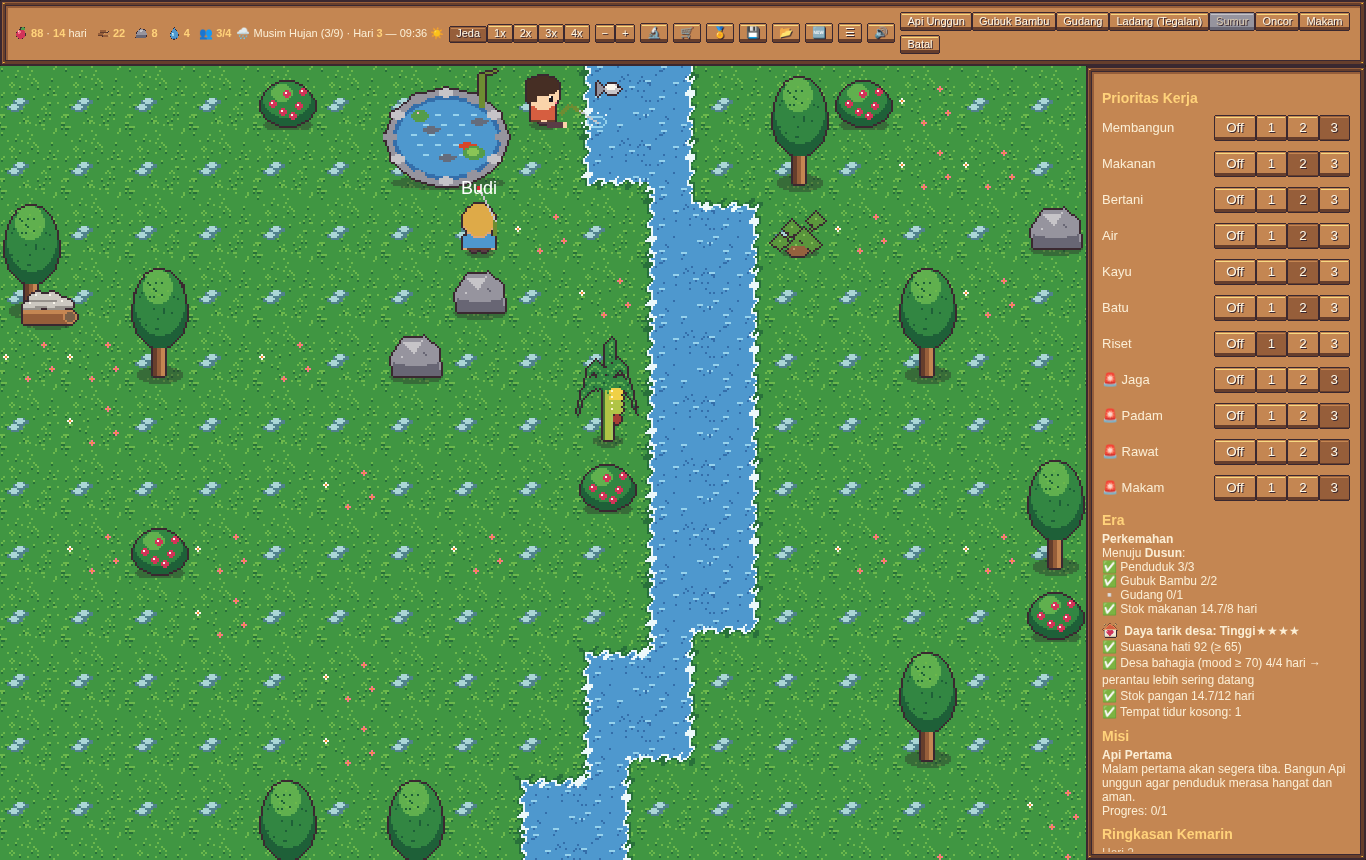
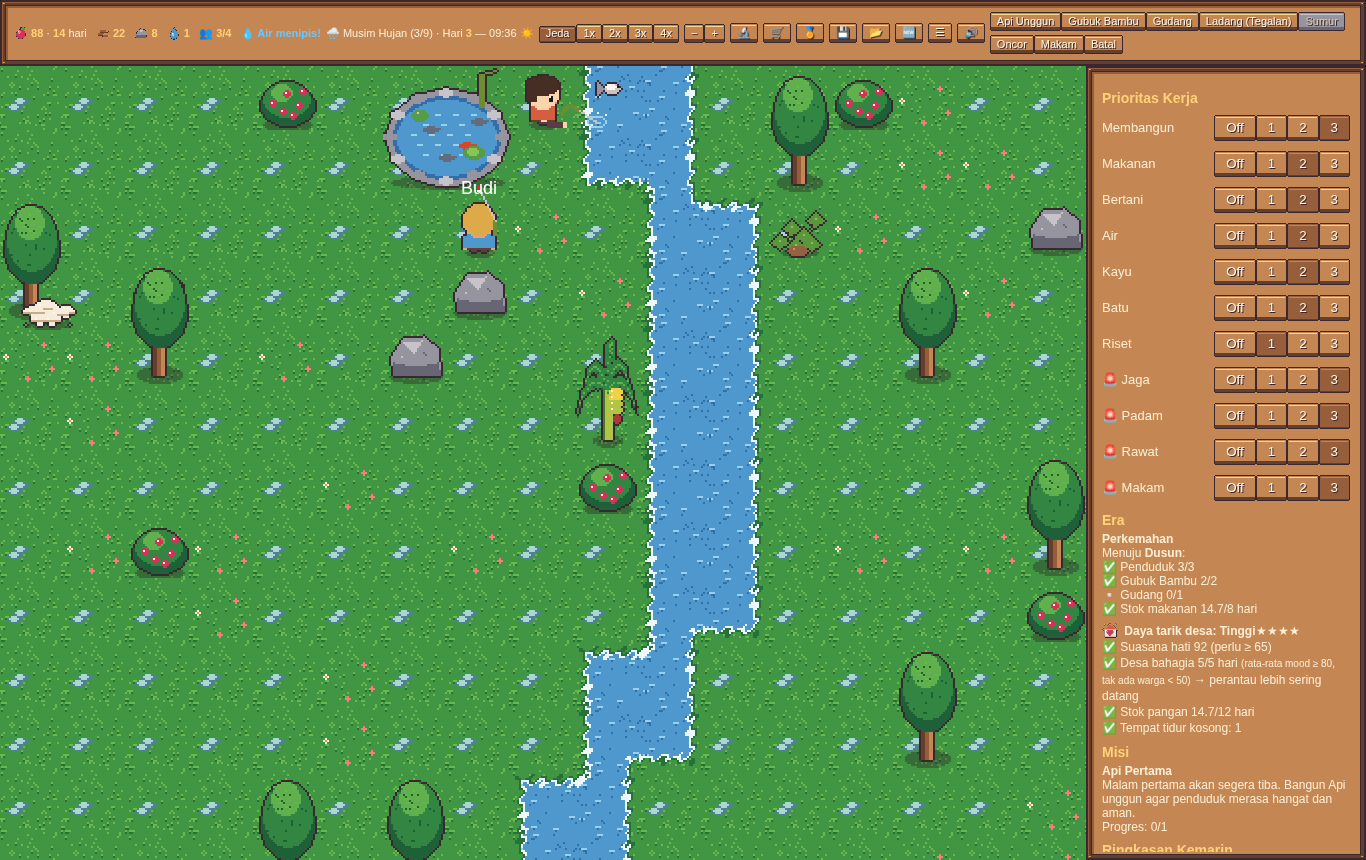
v9b: desa bahagia harus diperjuangkan (mood rata-rata >=80 selama 5 hari & tak ada warga <50, progres 3/5 di Daya tarik), batas nyaman mood (MOOD_COMFORT), makan porsi kecil lebih sering (MEAL_AT 50); tema sedang: semua cerita P0 + Festival Panen tanpa bendera + rubah, Kentang liar/Buah beri; TEKS p

Changed region(s): [[0.1537, 0.0, 0.9839, 0.0605], [0.7994, 0.7256, 0.9839, 0.9977], [0.0, 0.3326, 0.0615, 0.393]]

diff --git a/game.js b/game.js
@@ -225,6 +225,14 @@ function assignHomes() { const hs = houses().sort((a, b) => a.id - b.id), free =
   for (const v of vs) { const n = at.get(v.id) ?? null; if (n !== v.homeId && v.inside != null && v.inside !== n) exitHouse(v); v.homeId = n; } }
 // ---- bayi: tidak berjalan; digendong ibu/ayah saat santai, di buaian depan rumah saat orang tua bekerja, di dalam rumah saat malam ----
 const cookBonus = () => { const P = TRT().list.pandai_masak; return Math.min(P.kitchenBonusCap, S.villagers.filter(o => hasTrait(o, 'pandai_masak')).length * P.kitchenBonusAdd); }; // pandai_masak: dapur +0.05 (maks +0.10 desa)
+// v9b: porsi lebih kecil & lebih sering (makan saat lapar <= MEAL_AT bila stok >= 1 hari), supaya stok pangan tidak turun berundak 7 per orang tiap 3 hari
+const wantMeal = v => foodTotal() > 0 && (v.hunger <= C.HUNGER_CRIT || (v.hunger <= (C.MEAL_AT ?? C.HUNGER_CRIT) && foodTotal() >= foodPerDay()));
+// v9b: batas nyaman mood (desa bahagia harus diperjuangkan): api unggun & rumah hanya menaikkan mood sampai batas ini;
+// di atasnya hanya dari hal baik (kenduri, keinginan terpenuhi, festival, sahabat, sifat) dan pelan-pelan turun lagi.
+function comfortVillage() { const M = C.MOOD_COMFORT; if (!M) return 100; if (S._cvDay === S.t >> 3) return S._cv;
+  S._cvDay = S.t >> 3; return S._cv = M.base + (foodDays() >= M.foodDays ? M.food : 0) + (done('dapur').length ? M.kitchen : 0) + (done('sumur').length ? M.well || 0 : 0) + monumentComfort(); }
+function monumentComfort() { return 0; } // diisi monumen P1
+function comfortCap(v) { const M = C.MOOD_COMFORT; if (!M) return 100; return Math.min(M.max, comfortVillage() + (v.homeId != null ? M.home : 0) + (v.partnerId != null ? M.partner || 0 : 0)); }
 function eatNow(v) { const per = C.EAT_RESTORE_PER_FOOD * (done('dapur').length ? 1 + techVal('dapur_bonus', C.KITCHEN_EAT_BONUS) + cookBonus() : 1);
   let need = Math.ceil((100 - v.hunger) / per); const a = Math.min(need, S.res.makanan); S.res.makanan -= a; need -= a;
   const g = Math.min(need, S.res.gandum || 0); S.res.gandum -= g;
@@ -233,7 +241,7 @@ const cradlePos = h => { const p = doorPos(h); return { x: p.x + (C.BUILDINGS[h.
 function updateBaby(v, dt) { const perSec = 1 / C.DAY_LENGTH_SEC;
   growUp(v, dt);
   v.hunger = Math.max(0, v.hunger - C.HUNGER_PER_DAY * foodMultOf(v) * (isWinter() ? hungerMultNow() : 1) * perSec * dt);
-  if (v.hunger <= C.HUNGER_CRIT && foodTotal() > 0) eatNow(v);
+  if (wantMeal(v)) eatNow(v);
   if (v.hunger <= 0) v.health -= C.HEALTH.starvePerDay * perSec * dt; else if (v.hunger > 50) v.health = Math.min(100, v.health + C.HEALTH.regenPerDay * perSec * dt);
   v.energy = 100; const m = S.villagers.find(o => o.id === v.motherId) || S.villagers.find(o => o.id === v.fatherId);
   if (m) v.mood = Math.max(40, Math.min(100, m.mood + 10));
@@ -474,7 +482,7 @@ function lifeDaily() { if (S.syukuran && S.syukuran.day === S.day) { log('🎊 '
 function chooseTask(v) {
   const st = storage(v);
   // 1. Lapar kritis
-  if (v.hunger <= C.HUNGER_CRIT && foodTotal() > 0 && st) return { kind: 'makan', target: stPos(st) };
+  if (wantMeal(v) && st) return { kind: 'makan', target: stPos(st) };
   // 2. Tidur kritis, sakit parah (istirahat), lalu tugas darurat (padam/rawat/jaga/makam), baru tidur malam biasa
   if (v.energy <= C.ENERGY_CRIT || v.sick && v.sick.lvl === 'parah') return bedTask(v);
   // darurat: anak tidak ikut; ibu hamil tidak jaga; setelah 21:00 hanya darurat jadwal, setelah 22:30 hanya padam/jaga
@@ -575,7 +583,9 @@ function updateVillager(v, dt) {
   if (v.hunger <= 0) v.health -= C.HEALTH.starvePerDay * perSec * dt; else if (v.hunger > 50) v.health = Math.min(100, v.health + C.HEALTH.regenPerDay * perSec * dt);
   if (!(v.task && v.task.kind === 'tidur' && v.task.asleep)) v.energy = Math.max(0, v.energy - C.ENERGY_PER_DAY * (stageOf(v) === 'lansia' ? C.AGE.elderEnergyDecayMult : 1) / traitMult(v, 'energyMult') * perSec * dt); // energyMult: rajin lebih awet, malas cepat lelah
   const fire = nearest(done('apiunggun'), v, center);
-  if (fire && campfireLit() && dist(center(fire), v) < 4 * techVal('api_radius', 1)) v.mood = Math.min(100, v.mood + C.MOOD_CAMPFIRE_BONUS * traitMult(v, 'fireMoodMult') * dt); else if (inHut(v)) v.mood = Math.min(100, v.mood + C.MOOD_HOME_BONUS * dt); else v.mood -= C.MOOD_DECAY * dt * (isWinter() && S.res.kulit < S.villagers.length ? C.WINTER_MOOD_DECAY_MULT_NO_HIDE : 1);
+  const cap = comfortCap(v), gain = g => { if (v.mood < cap) v.mood = Math.min(cap, v.mood + g); }; // v9b: api/rumah hanya menaikkan mood sampai batas nyaman
+  if (v.mood > cap) v.mood = Math.max(cap, v.mood - ((C.MOOD_COMFORT || {}).aboveDecay || 0) * dt); // di atas batas nyaman (dari kenduri, keinginan, festival) turun pelan
+  if (fire && campfireLit() && dist(center(fire), v) < 4 * techVal('api_radius', 1)) gain(C.MOOD_CAMPFIRE_BONUS * traitMult(v, 'fireMoodMult') * dt); else if (inHut(v)) gain(C.MOOD_HOME_BONUS * dt); else v.mood -= C.MOOD_DECAY * dt * (isWinter() && S.res.kulit < S.villagers.length ? C.WINTER_MOOD_DECAY_MULT_NO_HIDE : 1);
   if (v.hunger < C.HUNGER_CRIT || v.energy < C.ENERGY_CRIT) v.mood -= C.MOOD_HUNGRY_PENALTY * dt;
   v.mood = Math.max(0, Math.min(v.traumaUntil >= S.day ? TH().traumaMoodCap : 100, v.mood));
   // interupsi kebutuhan kritis
@@ -693,6 +703,9 @@ function foodTask(v) { const F = FS(), others = S.villagers.filter(o => o !== v 
       add('memancing', Math.min(avgYield(M) * Math.max(M.pondSeasonMin || 0, Math.min(1, srcMult('memancing'))) + (M.pondYieldAdd || 0), S.fish.ponds[pb.id]), M.time, p, { pond: pb.id, fb: pb, face: p.face }); } }
   if (F.keong) { const f = nearest(S.buildings.filter(b => b.type === 'ladang' && b.keong > 0 && !takenB.has(b)), v, center); if (f) add('keong', Math.min(avgYield(F.keong) * srcMult('keong'), f.keong), F.keong.time, center(f), { fb: f }); }
   if (!cand.length) return null; cand.sort((a, b) => b.sc - a.sc); return cand[0].t; }
+// nama tugas sumber pangan: TEKS pangan.tugas.<id>.nama (Asisten Dokumen v1.6.0), cadangan di sini
+const TASK_FB = { meramu: 'Meramu', memancing: 'Memancing', jamur: 'Mencari jamur', buah: 'Memetik buah', umbi: 'Menggali umbi hutan', keong: 'Memungut keong sawah' };
+const taskName = id => TX('pangan.tugas.' + id + '.nama', {}, TASK_FB[id] || 'Meramu');
 // sisa pangan yang masih bisa diambil di sumber tugas t
 function foodAvail(t) { if (t.src === 'memancing') return t.pond != null ? (S.fish && S.fish.ponds[t.pond]) || 0 : (S.fish && S.fish.river) || 0;
   if (t.src === 'keong') return S.buildings.includes(t.fb) ? t.fb.keong || 0 : 0; if (t.jamurT) return t.node && t.node.amount > 0 ? t.node.jamur || 0 : 0; return t.node ? t.node.amount : 0; }
@@ -707,7 +720,7 @@ function foodWork(v, t, dt) { const c = FS()[t.src]; if (!c || foodAvail(t) <= 0
   else if (t.src === 'keong') t.fb.keong = Math.max(0, t.fb.keong - n); else if (t.jamurT) t.node.jamur = Math.max(0, t.node.jamur - n);
   else { t.node.amount -= n; if (t.node.amount <= 0) { t.node.amount = 0; t.node.regrow = (c.regrowDays || 3) * C.DAY_LENGTH_SEC; } }
   v.skills.meramu += C.SKILL_GAIN * traitMult(v, 'skillGainMult'); const src = t.src === 'memancing' ? 'ikan' : t.src === 'buah' ? t.kindF || 'buah' : t.src;
-  v.carry = { res: 'makanan', n, src }; sfx('klik'); vhist(v, `${{ memancing: 'Memancing', jamur: 'Mencari jamur', buah: 'Memetik buah', umbi: 'Menggali umbi', keong: 'Memungut keong' }[t.src] || 'Meramu'}: ${n} ${panganLabel(src).toLowerCase()}`);
+  v.carry = { res: 'makanan', n, src }; sfx('klik'); vhist(v, TX('pangan.tugas.' + t.src + '.log', { nama: v.name, jumlah: n, sumber: panganLabel(src).toLowerCase(), ...(t.src === 'buah' ? { buah: panganLabel(src).toLowerCase() } : {}) }, `${taskName(t.src)}: ${n} ${panganLabel(src).toLowerCase()}`));
   const st = storage(v); v.task = st ? { kind: 'setor', target: stPos(st) } : null; }
 // pohon buah & umbi tumbuh lagi (hari game), pohon buah hanya berbuah di musimnya
 function foodNodesStep(dt) { for (const n of S.nodes) if ((n.type === 'buah' || n.type === 'umbi') && n.amount <= 0 && (n.regrow -= dt) <= 0) {
@@ -1389,7 +1402,7 @@ function vhist(v, msg) { const f = dayFrac(), hh = String(Math.floor(f * 24)).pa
 function TASK_TEXT(t) { if (!t) return 'Menunggu';
   switch (t.kind) {
     case 'makan': return 'Makan'; case 'tidur': return t.asleep ? (t.where === 'bed' ? 'Tidur di rumah' : 'Tidur di luar') : 'Pulang untuk tidur'; case 'main': return 'Bermain'; case 'diam': return 'Santai'; case 'setor': return 'Menyetor ke gudang';
-    case 'kumpul': return t.src && t.src !== 'meramu' ? ({ memancing: 'Memancing', jamur: 'Mencari jamur', buah: 'Memetik buah', umbi: 'Menggali umbi hutan', keong: 'Memungut keong sawah' }[t.src] || 'Meramu') : 'Mengumpulkan ' + String(RES_LABEL[t.res] || t.res).toLowerCase();
+    case 'kumpul': return t.src && t.src !== 'meramu' ? taskName(t.src) : 'Mengumpulkan ' + String(RES_LABEL[t.res] || t.res).toLowerCase();
     case 'bangun': return (t.b && t.b.done ? 'Memperbaiki ' : 'Membangun ') + (t.b ? C.BUILDINGS[t.b.type].nama : '');
     case 'tani': return t.harvest ? 'Memanen ladang' : 'Menanam ladang';
     case 'air': return 'Mengambil air dari ' + (t.src === 'sumur' ? 'sumur' : 'sungai');
@@ -1471,7 +1484,9 @@ function newDay() {
   checkEra();
   const mood = S.villagers.reduce((a, v) => a + v.mood, 0) / pop;
   S.moodGoodDays = mood >= C.SPAWN.minMood ? S.moodGoodDays + 1 : 0;
-  S.happyDays = mood >= ((C.SPAWN.happy || {}).mood ?? 101) ? (S.happyDays || 0) + 1 : 0;
+  { const H = C.SPAWN.happy || {}, minV = Math.min(...S.villagers.map(v => v.mood)); // v9b: rata-rata >= H.mood DAN tidak ada warga < H.minMood, berturut-turut
+    S.happyDays = mood >= (H.mood ?? 101) && minV >= (H.minMood ?? 0) ? (S.happyDays || 0) + 1 : 0; S.happyMinMood = minV;
+    if ((S.happyDays || 0) >= (H.days || 1e9)) S.happyActiveDays = (S.happyActiveDays || 0) + 1; }
   const A = attraction(), sp = C.SPAWN;
   if (A.ok && Math.random() < A.chance) {
     if (A.happy) { log('💌 ' + TX('pangan.daya_tarik.pendatang', {}, 'Kabar desa yang bahagia sampai ke kampung sebelah… Seorang perantau ingin tinggal.')); S.happySpawns = (S.happySpawns || 0) + 1; }
@@ -1491,19 +1506,21 @@ function newDay() {
 }
 // daya tarik desa (v9): syarat pendatang + bonus desa bahagia (rata-rata mood >= SPAWN.happy.mood selama happy.days hari -> peluang & jeda lebih baik)
 function attraction() { const sp = C.SPAWN, H = sp.happy || {}, pop = S.villagers.length, mood = pop ? S.villagers.reduce((a, v) => a + v.mood, 0) / pop : 0;
-  const happy = (S.happyDays || 0) >= (H.days || 1e9), fd = foodDays(), needFd = sp.foodDays ?? sp.foodDaysPerPop, free = capacity() - pop - S.villagers.filter(v => v.pregnantUntil).length;
+  const lowMood = pop ? Math.min(...S.villagers.map(v => v.mood)) : 0, happy = (S.happyDays || 0) >= (H.days || 1e9), fd = foodDays(), needFd = sp.foodDays ?? sp.foodDaysPerPop, free = capacity() - pop - S.villagers.filter(v => v.pregnantUntil).length;
   const cd = (sp.cooldownDays + (sp.cooldownPerPop || 0) * pop) * ((S.era | 0) >= eraIndex(C.PREGNANCY.minEra) ? C.PREGNANCY.newcomerCooldownMult : 1) * (happy ? H.cooldownMult || 1 : 1) - (done('balai').length ? C.TOWN_HALL_SPAWN_COOLDOWN_CUT : 0);
   const cdLeft = Math.max(0, Math.ceil(cd - (S.day - S.lastSpawnDay))), moodOk = S.moodGoodDays >= sp.moodDays, foodOk = fd >= needFd, houseOk = free > 0;
   const ok = foodOk && houseOk && moodOk && cdLeft <= 0, chance = happy ? H.chancePerDay ?? 1 : sp.chancePerDay ?? 1;
   const score = (moodOk ? 1 : 0) + (happy ? 1 : 0) + (foodOk ? 1 : 0) + (houseOk ? 1 : 0);
-  return { mood, happy, happyDays: S.happyDays || 0, needHappy: H.days, happyMood: H.mood, moodOk, minMood: sp.minMood, fd, needFd, foodOk, free, houseOk, cdLeft, ok, chance, score }; }
+  return { mood, lowMood, happyMinMood: H.minMood, happy, happyDays: S.happyDays || 0, needHappy: H.days, happyMood: H.mood, moodOk, minMood: sp.minMood, fd, needFd, foodOk, free, houseOk, cdLeft, ok, chance, score }; }
 function attractionHTML() { const A = attraction(), K = (k, ex, fb) => TX('pangan.daya_tarik.' + k, ex || {}, fb), ic = ASSETS.ikon_daya_tarik && ASSETS.ikon_daya_tarik.ui;
   const lvl = A.score >= 4 ? K('tinggi', null, 'Tinggi') : A.score >= 3 ? K('sedang', null, 'Sedang') : K('rendah', null, 'Rendah');
   const tip = K('tooltip', null, 'Pendatang datang bila suasana hati baik, stok pangan cukup, dan ada tempat tidur kosong. Desa yang bahagia lebih sering didatangi perantau.');
   const row = (ok, t) => `${ok ? '✅' : '▫'} ${t}`;
   return `<div id="dayaTarik" title="${tip}" data-score="${A.score}" data-happy="${A.happy ? 1 : 0}" style="margin-top:6px">${ic ? `<img class="ico" src="${ic}" alt=""> ` : '💗 '}<b>${K('judul', null, 'Daya tarik desa')}: ${lvl}</b>${'★'.repeat(A.score)}${'☆'.repeat(4 - A.score)}<br>`
     + [row(A.moodOk, K('mood', { jumlah: Math.round(A.mood), jumlah2: A.minMood }, `Suasana hati ${Math.round(A.mood)} (≥ ${A.minMood})`)),
-       row(A.happy, K('bahagia', { jumlah: Math.min(A.happyDays, A.needHappy), jumlah2: A.needHappy }, `Desa bahagia (mood ≥ ${A.happyMood}) ${Math.min(A.happyDays, A.needHappy)}/${A.needHappy} hari`) + (A.happy ? ' ' + K('bonus', null, '→ perantau lebih sering datang') : '')),
+       row(A.happy, K('bahagia', { jumlah: Math.min(A.happyDays, A.needHappy), jumlah2: A.needHappy, jumlah3: A.happyMood, jumlah4: A.happyMinMood }, `Desa bahagia ${Math.min(A.happyDays, A.needHappy)}/${A.needHappy} hari`)
+         + ` <small>${K('bahagia_syarat', { jumlah: A.happyMood, jumlah2: A.happyMinMood }, `(rata-rata mood ≥ ${A.happyMood}, tak ada warga < ${A.happyMinMood})`)}</small>`
+         + (!A.happy && A.lowMood < (A.happyMinMood || 0) ? ` <small class="murung">(${K('murung', { jumlah: Math.round(A.lowMood) }, `ada warga murung: ${Math.round(A.lowMood)}`)})</small>` : '') + (A.happy ? ' ' + K('bonus', null, '→ perantau lebih sering datang') : '')),
        row(A.foodOk, K('pangan', { jumlah: A.fd.toFixed(1), jumlah2: A.needFd }, `Stok pangan ${A.fd.toFixed(1)}/${A.needFd} hari`)),
        row(A.houseOk, K('rumah', { jumlah: Math.max(0, A.free) }, `Tempat tidur kosong: ${Math.max(0, A.free)}`)),
        A.cdLeft > 0 ? `⏳ ${K('jeda', { jumlah: A.cdLeft }, `Pendatang berikutnya paling cepat ${A.cdLeft} hari lagi`)}` : ''].filter(Boolean).join('<br>') + '</div>'; }
@@ -1722,7 +1739,7 @@ function storyNewDay() { storyInit(); const R = S.director, prev = S.day - 1;
 // monyet pencuri siang (D15) & tikus lumbung (D21): penyerap kecil
 function monkeyDaily() { const M = C.MONKEY; if (!M || !M.enabled || S.day < M.fromDay || (S.era | 0) < eraIndex(M.era) || !M.musim.includes(storySeason()) || foodTotal() < M.minFood) return;
   if (Math.random() >= M.chancePerDay * threatBuff('monyet')) return; const n = rndInt(M.steal[0], M.steal[1]); takeFood(n, 'monyet'); S.monkeyDays.push(S.day); if (S.monkeyDays.length > 12) S.monkeyDays.shift();
-  log('🐒 ' + TX('peringatan_dini.ancaman_monyet.tingkat.bahaya.teks', {}, 'Monyet-monyet melompat ke tegalan dan menyambar jagung!')); }
+  log((M.icon || '🐒') + ' ' + TX('peringatan_dini.ancaman_monyet.tingkat.bahaya.teks', {}, M.fallback || 'Monyet-monyet melompat ke tegalan dan menyambar jagung!')); }
 function ratDaily() { const T = SKC().tikus; if (!T || S.day < T.fromDay || (S.res.gandum || 0) < T.gandumMin) return; const n = S.res.gandum * T.fracPerDay * buffMult('tikus'); S.res.gandum -= n; foodLedger(-n, true); dstat('sink', 'tikus', n); }
 // ---- Agustusan (§2.3) ----
 const agustusYear = () => yearIdx();
@@ -1800,11 +1817,12 @@ function panggung() { const A = AGC(), AT = (TEXT && TEXT.agustusan) || {}, R = 
 // tugas saat lomba: semua penduduk dewasa berkumpul di lapangan (kebutuhan kritis tetap didahulukan di chooseTask)
 function lombaTask(v) { const L = S.lomba, p = L && L.lap; if (!p) return null; const i = S.villagers.indexOf(v); return { kind: 'diam', target: { x: p.x + (i % 7), y: p.y + 3 + Math.floor(i / 7) % 2 }, timer: 6 }; }
 // dekorasi Agustusan di peta (aset tahap 8b): umbul-umbul, bendera, pinang, kerupuk, karung, peserta balap karung
-function storyDecor() { const A = AGC(), L = S.lomba, out = []; if (!A || !A.enabled || !L || L.year !== agustusYear() || !L.lap) return out; const d = dayOfYear(), p = L.lap;
+function storyDecor() { const out = storyDecorAll(), hide = C.AGUS_HIDE || []; return hide.length ? out.filter(o => !hide.includes(o.key)) : out; }
+function storyDecorAll() { const A = AGC(), L = S.lomba, out = []; if (!A || !A.enabled || !L || L.year !== agustusYear() || !L.lap) return out; const d = dayOfYear(), p = L.lap;
   const show = d >= A.prepDayOfYear && d <= A.umbul.days[1] && L.stage >= 2; if (!show) return out;
   for (let i = 0; i < (L.umbul || 0); i++) { const x = p.x - 1 + (i % 2) * 8, y = p.y - 1 + Math.floor(i / 2) * 2; out.push({ y: y + 1, draw: () => sprite('agus_umbul', x, y, 1, 1, frameAt(ASSETS.agus_umbul, 4)) }); }
-  out.push({ y: p.y + 1, draw: () => sprite('agus_bendera', p.x + 3, p.y, 1, 1, frameAt(ASSETS.agus_bendera, 4)) });
-  if (L.umbul > 0) for (let i = 0; i < 7; i++) out.push({ y: p.y - 0.5, draw: () => sprite('agus_bunting', p.x + i, p.y - 1, 1, 1, frameAt(ASSETS.agus_bunting, 2)) });
+  out.push({ key: 'agus_bendera', y: p.y + 1, draw: () => sprite('agus_bendera', p.x + 3, p.y, 1, 1, frameAt(ASSETS.agus_bendera, 4)) });
+  if (L.umbul > 0) for (let i = 0; i < 7; i++) out.push({ key: 'agus_bunting', y: p.y - 0.5, draw: () => sprite('agus_bunting', p.x + i, p.y - 1, 1, 1, frameAt(ASSETS.agus_bunting, 2)) });
   if (d === A.dayOfYear && L.stage >= 4 && L.stage < 7) { const picked = L.picked || [];
     if (picked.includes('panjat_pinang')) out.push({ y: p.y + 2, draw: () => sprite('agus_pinang', p.x + 5, p.y + 1, 2, 1) });
     if (picked.includes('makan_kerupuk')) out.push({ y: p.y + 2, draw: () => sprite('agus_kerupuk', p.x + 1, p.y + 1, 1, 1, frameAt(ASSETS.agus_kerupuk, 2)) });

diff --git a/tests/balance-sim.test.js b/tests/balance-sim.test.js
@@ -33,12 +33,13 @@ const RUNS = +process.argv[2] || 3, DAYS = +process.argv[3] || 28, LONG = DAYS >
         if (S.day !== last && TLon && !firstBirth && S.day % 3 === 0) { const P = C.PREGNANCY, m = S.villagers.find(v => v.sex === 'P' && v.partnerId != null), f = m && D.life.partnerOf(m);
           (snap.why = snap.why || []).push(`d${S.day} era${S.era | 0} pairs${S.villagers.filter(v => v.partnerId != null).length / 2} singles${S.villagers.filter(v => v.partnerId == null && !D.life.isKid(v)).map(v => v.sex + v.age + '@' + v.homeId).join(',')} cap${D.life.capacity()} ` + (m ? `m.mood${Math.round(m.mood)} f.mood${Math.round(f.mood)} fd${D.foodDays().toFixed(1)} fam${D.famineLevel()} age${m.age}` : '')); }
         if (S.day !== last && LONG && !S.research) { const n = D.techNodes().find(n => D.startResearch(n.id)); }
+        if (S.day !== last && S.day > 1) { const ms = S.villagers.map(v => v.mood); (snap.moods = snap.moods || []).push([Math.round(ms.reduce((a, b) => a + b, 0) / ms.length), Math.round(Math.min(...ms))]); }
         if (S.day !== last && S.day % 10 === 0) (snap.tl = snap.tl || []).push(`d${S.day} pop${S.villagers.length} m${Math.floor(S.res.makanan + S.res.gandum)} k${Math.floor(S.res.kayu)} a${Math.floor(S.res.air)} b${Math.floor(S.res.batu)} ${S.season || ''} lad${S.buildings.filter(b => b.type === 'ladang' && b.done).length} sick${S.villagers.filter(v => v.sick).length} kid${S.villagers.filter(v => D.life.isKid(v)).length} mood${Math.round(S.villagers.reduce((a, v) => a + v.mood, 0) / Math.max(1, S.villagers.length))} F[${['kosong', 'tumbuh', 'siap'].map(st => S.buildings.filter(b => b.type === 'ladang' && b.done && b.stage === st).length).join('/')}] T[${Object.entries(S.villagers.reduce((a, v) => (a[v.task ? v.task.kind + (v.task.res ? ':' + v.task.res : '') : '-'] = (a[v.task ? v.task.kind + (v.task.res ? ':' + v.task.res : '') : '-'] || 0) + 1, a), {})).map(e => e.join('')).join(' ')}] st${D.life ? S.villagers.map(v => D.life.stageOf(v)[0]).join('') : ''} ${D.seasonInfo ? D.seasonInfo(S.day).id : ''}`);
         if (S.day !== last) { last = S.day; tryBuild(); curve[S.day] = { food: Math.floor(S.res.makanan + S.res.gandum), pop: S.villagers.length, air: Math.floor(S.res.air) }; } }
       return { nonFood, d24, hut2, events: S.eventCount || {}, curve: [1, 7, 14, 21, 24].map(d => [d, curve[d]]), final: Object.fromEntries(Object.entries(S.res).map(([k, v]) => [k, Math.floor(v)])),
         pop: S.villagers.length, deaths: S.log.filter(l => l.includes('💀')).length, built: S.buildings.filter(b => b.done).map(b => b.type).join(','),
         harvests: S.log.filter(l => l.includes('memanen')).length, deathsN: S.deaths || 0, leavers: S.leavers || 0, snap, firstHut, endDay: S.day, foodFocus,
-        dlog: S.log.filter(l => /💀|pergi|meninggalkan/.test(l)).slice(0, 14), softlock: !firstHut || firstHut > 30 || !S.villagers.length, bites: S.wolfBites || 0, births: S.births || 0, deathsOld: S.deathsOld || 0, babyLost: S.babyLost || 0, firstBirth, spoiled: Math.floor(S.spoiled || 0), newcomers: S.newcomerSpawns || 0, happyNew: S.happySpawns || 0, minFood: Math.floor(minFood), minDay: S._minDay, minFd: +minFd.toFixed(1), src,
+        dlog: S.log.filter(l => /💀|pergi|meninggalkan/.test(l)).slice(0, 14), softlock: !firstHut || firstHut > 30 || !S.villagers.length, bites: S.wolfBites || 0, births: S.births || 0, deathsOld: S.deathsOld || 0, babyLost: S.babyLost || 0, firstBirth, spoiled: Math.floor(S.spoiled || 0), newcomers: S.newcomerSpawns || 0, happyNew: S.happySpawns || 0, happyPct: Math.round(100 * (S.happyActiveDays || 0) / Math.max(1, S.day - 1)), minFood: Math.floor(minFood), minDay: S._minDay, minFd: +minFd.toFixed(1), src,
         story: (() => { const R = S.director || { days: '' }, d = R.days.slice(14), runs = d.split('1').map(x => x.length); return { cov: d.length ? d.split('').filter(c => c === '1').length / d.length : null, maxEmpty: Math.max(0, ...runs), counts: R.counts || {}, landed: (R.landed || []).length, food: S.storyFood || {}, lomba: (S.lomba && S.lomba.history || []).length + (S.lomba && S.lomba.stage >= 7 ? 1 : 0) }; })() };
     }, [nonFood, DAYS, LONG, 1000 + run * 7919, foodFocus, !!process.env.TL]));
     await p.close();
@@ -53,7 +54,9 @@ const RUNS = +process.argv[2] || 3, DAYS = +process.argv[3] || 28, LONG = DAYS >
     results.forEach((r, i) => console.log(`  siklus run ${i + 1}: pop d40/d80/d${DAYS}=${[40, 80, DAYS].map(d => r.snap[d] ? r.snap[d].pop : 0).join('/')} lahir=${r.births} lahir-pertama=hari ${r.firstBirth ?? '-'} mati-tua=${r.deathsOld} mati-lain=${r.deathsN - r.deathsOld} bayi-gagal=${r.babyLost} pergi=${r.leavers} anak d${DAYS}=${r.snap[DAYS] ? r.snap[DAYS].kids : '-'}`));
     console.log(`SIKLUS: median pop d40 ${med(P(40))} (4-7), d80 ${med(P(80))} (7-11), d${DAYS} ${med(P(DAYS))} (10-16) | lahir ${results.reduce((a, r) => a + r.births, 0)}, mati tua ${results.reduce((a, r) => a + r.deathsOld, 0)}, mati lain ${dead - results.reduce((a, r) => a + r.deathsOld, 0)}, pergi ${left} | median lahir pertama hari ${med(results.map(r => r.firstBirth))}`);
     const SF = k => Math.round(results.reduce((a, r) => a + ((r.story.food || {})[k] || 0), 0) / RUNS);
-    console.log(`PENDATANG: median ${med(results.map(r => r.newcomers))} per run (total ${results.reduce((a, r) => a + r.newcomers, 0)}, lewat desa bahagia ${results.reduce((a, r) => a + r.happyNew, 0)})`);
+    { const all = results.flatMap(r => r.snap.moods || []), q = (arr, f) => { const a = arr.slice().sort((x, y) => x - y); return a[Math.floor(f * (a.length - 1))]; };
+      console.log(`MOOD harian: rata-rata p10/p50/p90 ${[0.1, 0.5, 0.9].map(f => q(all.map(m => m[0]), f)).join('/')} | terendah p10/p50/p90 ${[0.1, 0.5, 0.9].map(f => q(all.map(m => m[1]), f)).join('/')}`); }
+    console.log(`PENDATANG: median ${med(results.map(r => r.newcomers))} per run (total ${results.reduce((a, r) => a + r.newcomers, 0)}, lewat desa bahagia ${results.reduce((a, r) => a + r.happyNew, 0)}, min ${Math.min(...results.map(r => r.newcomers))}) | desa bahagia aktif: median ${med(results.map(r => r.happyPct))}% hari (${Math.min(...results.map(r => r.happyPct))}-${Math.max(...results.map(r => r.happyPct))}%, target 25-45)`);
     console.log(`PANGAN: median d120 ${med(results.map(r => r.snap[120] && r.snap[120].food))} (300-500), d24 ${med(results.map(r => r.d24 && r.d24.food))}, min pangan hari 2-24 median ${med(results.map(r => r.minFood))} (terendah ${Math.min(...results.map(r => r.minFood))}), min hari-stok median ${med(results.map(r => r.minFd))} | pop d140 maks ${Math.max(...results.map(r => r.snap[140] ? r.snap[140].pop : 0))}`);
     const SRC = {}; results.forEach(r => Object.entries(r.src).forEach(([k, n]) => SRC[k] = (SRC[k] || 0) + n / RUNS)); console.log('SUMBER pangan masuk rata-rata/run: ' + Object.entries(SRC).sort((a, b) => b[1] - a[1]).map(([k, n]) => `${k} ${Math.round(n)}`).join(', '));
     console.log(`CERITA: cakupan hari bermakna (hari 15+) median ${med(results.map(r => Math.round((r.story.cov || 0) * 100)))}% min ${Math.min(...results.map(r => Math.round((r.story.cov || 0) * 100)))}%, hari kosong beruntun maks ${Math.max(...results.map(r => r.story.maxEmpty))} | rata-rata/run: dilema ${(results.reduce((a, r) => a + (r.story.counts.dilema || 0), 0) / RUNS).toFixed(1)}, momen ${(results.reduce((a, r) => a + (r.story.counts.momen || 0), 0) / RUNS).toFixed(1)}, tertunda mendarat ${(results.reduce((a, r) => a + r.story.landed, 0) / RUNS).toFixed(1)} | pangan cerita masuk ${SF('in')} keluar ${SF('out')} (penyerap ${SF('sink')})`);

diff --git a/tests/pangan.test.js b/tests/pangan.test.js
@@ -52,18 +52,23 @@ const { chromium } = require('playwright');
     setDay(16); P.foodSourcesDaily(); const kemarau = count(); setDay(3); P.foodSourcesDaily(); v.task = null; v.carry = null;
     return { hujan, kemarau, forest, ys: [Math.min(...ys), Math.max(...ys)], mHujan: P.srcMult('jamur'), on: P.srcOn('jamur') }; });
   ok('jamur hujan', jam.forest > 0 && jam.hujan >= 10 && jam.kemarau === 0 && jam.ys[0] >= 2 && jam.ys[1] <= 4, jam);
-  // 6) pendatang desa bahagia: mood >= 70 selama 4 hari -> peluang SPAWN.happy.chancePerDay (biasa SPAWN.chancePerDay) + log "Kabar desa yang bahagia..."; tetap butuh 12 hari stok & rumah
+  // 6) pendatang desa bahagia (v9b): rata-rata mood >= 80 selama 5 hari & tak ada warga < 50 -> peluang SPAWN.happy.chancePerDay (biasa SPAWN.chancePerDay) + log "Kabar desa yang bahagia..."; tetap butuh 12 hari stok & rumah
   const happy = await p.evaluate(() => { const S = DESA.state, C = CONFIG, P = DESA.pangan;
     DESA.addBuilding('gubuk', 26, 23, true); DESA.addBuilding('gubuk', 18, 25, true); DESA.life.assignHomes();
     const prep = (mood, hd) => { S.villagers.forEach(v => { v.mood = mood; v.hunger = 100; }); S.moodGoodDays = 10; S.happyDays = hd; S.lastSpawnDay = -99; S.res.makanan = DESA.foodPerDay() * 20; S.res.gandum = 0; S.event = null; };
     const R = Math.random, tryDay = () => { const n0 = S.villagers.length, l0 = S.log.length; Math.random = () => 0.7; try { DESA.newDay(); } finally { Math.random = R; } S.event = null; return { spawned: S.villagers.length - n0, log: S.log.slice(0, Math.max(1, S.log.length - l0)).join(' | ') }; };
     prep(66, 0); const A0 = P.attraction(); const normal = tryDay();
-    prep(90, 4); const A1 = P.attraction(); const bahagia = tryDay();
-    prep(90, 4); S.res.makanan = DESA.foodPerDay() * 8; const A2 = P.attraction();
+    const H = C.SPAWN.happy; prep(90, H.days); const A1 = P.attraction(); const bahagia = tryDay();
+    prep(90, H.days - 1); S.villagers[0].mood = H.minMood - 10; const Am = P.attraction(), murung = tryDay(), murungDays = S.happyDays, htmlMurung = P.attractionHTML();
+    prep(H.mood + 5, 3); const prog = P.attractionHTML();
+    prep(90, H.days); S.res.makanan = DESA.foodPerDay() * 8; const A2 = P.attraction();
     S.res.makanan = DESA.foodPerDay() * 20; DESA.pangan.ui(); const html = P.attractionHTML(), el = document.getElementById('dayaTarik');
-    return { A0: { ok: A0.ok, chance: A0.chance, happy: A0.happy }, normal: normal.spawned, A1: { ok: A1.ok, chance: A1.chance, happy: A1.happy, needFd: A1.needFd }, bahagia, A2: { ok: A2.ok, foodOk: A2.foodOk }, panel: !!el && /Daya tarik desa/.test(el.innerHTML), html: html.replace(/^.*?<b>/, '<b>').slice(0, 160), happySpawns: S.happySpawns || 0, cfg: C.SPAWN }; });
+    return { A0: { ok: A0.ok, chance: A0.chance, happy: A0.happy }, normal: normal.spawned, A1: { ok: A1.ok, chance: A1.chance, happy: A1.happy, needFd: A1.needFd }, bahagia, murung: murung.spawned, murungDays, Am: { happy: Am.happy, minMood: Am.minMood }, htmlMurung: /murung/.test(htmlMurung), prog: (prog.replace(/<[^>]+>/g, '').match(/\d+\/\d+ hari/) || [''])[0], A2: { ok: A2.ok, foodOk: A2.foodOk }, panel: !!el && /Daya tarik desa/.test(el.innerHTML), html: html.replace(/^.*?<b>/, '<b>').slice(0, 160), happySpawns: S.happySpawns || 0, cfg: C.SPAWN }; });
   ok('pendatang biasa 0.5', happy.A0.ok && !happy.A0.happy && happy.A0.chance === happy.cfg.chancePerDay && happy.normal === 0, happy);
-  ok('pendatang bahagia', happy.A1.ok && happy.A1.happy && happy.A1.chance === happy.cfg.happy.chancePerDay && happy.A1.chance > happy.A0.chance && happy.bahagia.spawned === 1 && /Kabar desa yang bahagia sampai ke kampung sebelah/.test(happy.bahagia.log) && happy.happySpawns === 1, happy);
+  ok('pendatang bahagia', happy.A1.ok && happy.A1.happy && happy.A1.chance === happy.cfg.happy.chancePerDay && happy.A1.chance > happy.A0.chance && happy.bahagia.spawned === 1 && /💌/.test(happy.bahagia.log) /* teks fallback 'Kabar desa yang bahagia...' atau variasi TEKS pangan.daya_tarik.pendatang */ && happy.happySpawns === 1, happy);
+  ok('desa bahagia: syarat ketat', happy.cfg.happy.mood === 80 && happy.cfg.happy.days === 5 && happy.cfg.happy.minMood === 50, happy.cfg);
+  ok('warga murung membatalkan', happy.murung === 0 && happy.murungDays === 0 && !happy.Am.happy && happy.htmlMurung, happy);
+  ok('progres 3/5 hari', happy.prog === '3/5 hari', happy.prog);
   ok('pendatang butuh 12 hari stok', happy.A1.needFd === 12 && !happy.A2.ok && !happy.A2.foodOk, happy);
   ok('panel daya tarik', happy.panel && /Daya tarik desa: Tinggi/.test(happy.html), happy.html);
   // 7) kenduri: hanya menyerap stok di atas 15 hari; bentuk bergantian kenduri/syukuran/sedekah
@@ -103,7 +108,7 @@ const { chromium } = require('playwright');
     return { ids: Object.keys(F), buahNodes: S.nodes.filter(n => n.type === 'buah').length, umbiNodes: S.nodes.filter(n => n.type === 'umbi').length, note: DESA.notes.map(n => `+${n.n} ${n.label}`), umbiLbl: DESA.pangan.panganLabel('umbi'),
       badge: document.getElementById('panganBadge') && document.getElementById('panganBadge').textContent }; });
   ok('sedang sumber', sd.ids.includes('memancing') && sd.ids.includes('jamur') && sd.ids.includes('umbi') && !sd.ids.includes('buah') && !sd.ids.includes('keong') && sd.buahNodes === 0 && sd.umbiNodes > 0, sd);
-  ok('sedang note', sd.note.includes('+5 Ikan') && sd.umbiLbl === 'Umbi liar', sd);
+  ok('sedang note', sd.note.includes('+5 Ikan') && sd.umbiLbl !== 'Umbi hutan' /* fallback 'Umbi liar', TEKS sedang bisa 'Kentang liar' */, sd);
   const res = { top: top.txt, notes: notes.ns, field: fld.dry.why, fish: { hujan: fish.hujan.avg.toFixed(2), deras: fish.deras.avg.toFixed(2), kemarau: fish.kemarau.avg.toFixed(2) }, jamur: { hujan: jam.hujan, kemarau: jam.kemarau }, kenduri: ken.over, happy: happy.bahagia.spawned, fails, errs };
   console.log(JSON.stringify(res, null, 1));
   if (fails.length || errs.length) process.exitCode = 1; await b.close();

diff --git a/tema.js b/tema.js
@@ -52,16 +52,19 @@ window.THEMES = {
       ekstrem_reda: ['peringatan_dini.ancaman_dingin_ekstrem.tingkat.reda.teks', 'Angin beku sudah reda.'],
     },
     TEXT_PATCH: {},
-    // cerita P0 (cerita.js): TEKS-TEMA-sedang.json belum punya dilema/momen_kecil/agustusan -> hanya yang netral-budaya dipakai; Agustusan & monyet mati
-    STORY_DISABLE: ['pencuri_singkong', 'tengkulak_padi', 'kerbau_tetangga', 'monyet_kebun', 'tanggap_reog', 'minta_hujan', 'jenang_suro', 'burung_perkutut', 'teh_tubruk', 'kentongan_iseng'],
+    // cerita P0: TEKS-TEMA-sedang.json v1.5.1+ punya padanan empat musim untuk 12 dilema, momen kecil, Festival Panen (pengganti Agustusan) & rubah (pengganti monyet)
+    // -> semua cerita aktif di tema ini. Bendera & bunting merah-putih tidak dipasang saat Festival Panen.
+    STORY_DISABLE: [],
+    AGUS_HIDE: ['agus_bendera', 'agus_bunting'],
     STORY_SEASON_ALIAS: { semi: 'hujan', panas: 'labuh', gugur: 'mareng', dingin: 'kemarau' },
-    STORY_PATCH: { AGUSTUSAN: { enabled: false }, MONKEY: { enabled: false } },
+    STORY_PATCH: { MONKEY: { icon: '🦊', fallback: 'Seekor rubah menyelinap ke ladang dan membawa lari makanan!' } },
     TRAITS_PATCH: { founderNeedOneOf: null }, // aturan pengaman RISET-CERITA-TUJUAN §5.1: median d24 > 48 setelah efek sifat (55) -> hapus syarat sifat kerja pendiri
+    MOOD_COMFORT_PATCH: { base: 64 }, // v9b: musim dingin menekan mood -> batas nyaman sedikit lebih tinggi supaya desa bahagia aktif ~25-45% hari seperti Nusantara
     SCHEDULE_PATCH: { dayWorkMult: 1.12, daySpeedMult: 1.2 }, // kompensasi jam tidur per tema (sim d24: 1.35 -> ~56; 1.2 + efek sifat -> 51-55; 1.12 -> lihat README)
     // pangan v9: musim empat-musim untuk memancing & jamur; pohon buah tropis, umbi hutan & keong sawah tidak ada (null = mati). Kolam Ikan membeku sebagian di musim dingin.
-    FOOD_SOURCES_PATCH: { memancing: { season: { semi: 1.1, panas: 0.85, gugur: 0.9, dingin: 0.4 }, pondSeasonMin: 0.6 }, jamur: { season: { semi: 1.0, panas: 0.2, gugur: 1.0, dingin: 0 } }, buah: null, keong: null,
+    FOOD_SOURCES_PATCH: { meramu: { label: 'Buah beri' }, memancing: { season: { semi: 1.1, panas: 0.85, gugur: 0.9, dingin: 0.4 }, pondSeasonMin: 0.6 }, jamur: { season: { semi: 1.0, panas: 0.2, gugur: 1.0, dingin: 0 } }, buah: null, keong: null,
       // padanan iklim sedang: umbi liar (kentang/lobak liar) tetap ada, tanpa pohon buah tropis & keong sawah
-      umbi: { label: 'Umbi liar', count: 7, season: { semi: 1.0, panas: 0.4, gugur: 0.7, dingin: 0.3 } } },
+      umbi: { label: 'Kentang liar', count: 7, season: { semi: 1.0, panas: 0.4, gugur: 0.7, dingin: 0.3 } } },
     // TEKS-GAME.json (v1.5) dipakai semua tema. Teks lama yang di v1.4+ ditulis ulang bernuansa Nusantara ditimpa dengan teks empat musim
     // dari TEKS-TEMA-sedang.json (selisih v1.3.0 vs v1.5.0, dibuat tools/buat_overlay_sedang.js; larik ber-id digabung per id)
     TEXT_OVERLAY: 'TEKS-TEMA-sedang.json',
@@ -151,7 +154,7 @@ CONFIG.THREAT.wolf.hardMult = CONFIG.THREAT.wolf.winterMult;
   try { const q = new URLSearchParams(location.search).get('tema'); if (q && THEMES[q]) id = q; } catch (e) { /* tanpa location */ }
   const T = THEMES[id]; CONFIG.THEME = id;
   for (const k of ['SEASONS', 'SEASON_LEN', 'SEASON_NAMES', 'SEASON_ICONS', 'HARD_SEASON', 'HARD_COLD', 'HARD_HUNGER_MULT', 'GRANARY_HARD_HUNGER_MULT', 'HARD_BUFFER_DAYS',
-    'SEASON_FX', 'NIGHT_THREAT', 'ART_SUFFIX', 'WINTER_ART', 'WEATHER', 'EVENT_DISABLE', 'EVENT_SEASON_ALIAS', 'TXT', 'TEXT_PATCH', 'TERMS', 'FIELD_ROTATION', 'ASSET_SWAP', 'RES_ICON', 'TEXT_FILE', 'TEXT_OVERLAY']) CONFIG[k] = T[k];
+    'SEASON_FX', 'NIGHT_THREAT', 'ART_SUFFIX', 'WINTER_ART', 'WEATHER', 'EVENT_DISABLE', 'EVENT_SEASON_ALIAS', 'TXT', 'TEXT_PATCH', 'TERMS', 'FIELD_ROTATION', 'ASSET_SWAP', 'RES_ICON', 'TEXT_FILE', 'TEXT_OVERLAY', 'AGUS_HIDE']) CONFIG[k] = T[k];
   for (const [b, n] of Object.entries(T.BUILDING_NAMES || {})) if (CONFIG.BUILDINGS[b]) CONFIG.BUILDINGS[b] = Object.assign({}, CONFIG.BUILDINGS[b], { nama: n });
   CONFIG.YEAR_SCALE = Object.assign({}, CONFIG.YEAR_SCALE, T.YEAR_SCALE);
   CONFIG.STORY_DISABLE = T.STORY_DISABLE || []; CONFIG.STORY_SEASON_ALIAS = T.STORY_SEASON_ALIAS || null;
@@ -159,6 +162,7 @@ CONFIG.THREAT.wolf.hardMult = CONFIG.THREAT.wolf.winterMult;
   if (T.TRAITS_PATCH && CONFIG.TRAITS) CONFIG.TRAITS = Object.assign({}, CONFIG.TRAITS, T.TRAITS_PATCH);
   if (T.FOOD_SOURCES_PATCH && CONFIG.FOOD_SOURCES) { CONFIG.FOOD_SOURCES = Object.assign({}, CONFIG.FOOD_SOURCES);
     for (const [k, v] of Object.entries(T.FOOD_SOURCES_PATCH)) { if (v === null) delete CONFIG.FOOD_SOURCES[k]; else CONFIG.FOOD_SOURCES[k] = Object.assign({}, CONFIG.FOOD_SOURCES[k], v); } }
+  if (T.MOOD_COMFORT_PATCH && CONFIG.MOOD_COMFORT) CONFIG.MOOD_COMFORT = Object.assign({}, CONFIG.MOOD_COMFORT, T.MOOD_COMFORT_PATCH);
   if (T.SCHEDULE_PATCH && CONFIG.SCHEDULE) CONFIG.SCHEDULE = Object.assign({}, CONFIG.SCHEDULE, T.SCHEDULE_PATCH);
   CONFIG.FIELD = Object.assign({}, CONFIG.FIELD, { crops: T.FIELD_CROPS });
   CONFIG.MARKET.musim = T.MARKET_MUSIM;

diff --git a/tests/cerita.test.js b/tests/cerita.test.js
@@ -80,7 +80,7 @@ const { chromium } = require('playwright');
   // tema sedang: Agustusan & dilema khas Nusantara mati, Juru Cerita tetap jalan
   const q = await open(null, 'sedang');
   const r7 = await q.evaluate(`(${setup})(); (() => { const S = DESA.state, C = CONFIG, seen = {}; for (let i = 0; i < 40 * 1200; i++) { DESA.step(0.1); if (S.event) { if (S.event === '@story') seen[S.story.type + ':' + (S.story.id || '')] = 1; const b = document.querySelector('#modal [data-ev]:not([disabled])'); b ? b.click() : (S.event = null); } }
-    return { agus: C.AGUSTUSAN.enabled, monyet: C.MONKEY.enabled, seen: Object.keys(seen), banned: Object.keys(seen).filter(k => C.STORY_DISABLE.includes(k.split(':')[1])), lomba: S.lomba.stage || 0 }; })()`);
+    return { agus: C.AGUSTUSAN.enabled, monyet: C.MONKEY.enabled, seen: Object.keys(seen), banned: Object.keys(seen).filter(k => C.STORY_DISABLE.includes(k.split(':')[1])), lomba: S.lomba.stage || 0, disable: C.STORY_DISABLE.length, hide: (C.AGUS_HIDE || []).join(), fox: C.MONKEY.icon }; })()`);
   console.log(JSON.stringify({ r: { ...r, perDay: undefined }, r2, r3, r4, r4b, r5, r6, r7 }));
   const ok = r.clash.length === 0 && r.bad.length === 0 && r.maxDil <= 1 && r.maxModal <= 2 && r.cov >= 0.8 && r.maxEmpty < 3 && (r.counts.dilema || 0) >= 3 && (r.counts.momen || 0) >= 3
     && r2.opened && r2.landed.length === 1 && r2.landed[0][1] - r2.landed[0][0] === 3 && r2.logHasHari && !r2.badRange && r2.firstOpt.every(x => x[4]) && r2.noKritis
@@ -88,6 +88,6 @@ const { chromium } = require('playwright');
     && r4b.atField >= 3 && r4.panel && r4.panel.length === 4 && r4.picked.length >= 2 && r4.umbul === 3 && r4.dayOfYear === 21
     && r5.results.length === 4 && new Set(r5.results).size === 4 && r5.juara && r5.piala && r5.stage === 7
     && r6.card && r6.opts === 3 && r6.tunda
-    && !r7.agus && !r7.monyet && r7.banned.length === 0 && r7.seen.length >= 2 && r7.lomba === 0 && !errs.length;
+    && r7.agus && r7.monyet && r7.disable === 0 && r7.fox === '🦊' && /agus_bendera/.test(r7.hide) && r7.banned.length === 0 && r7.seen.length >= 2 && !errs.length; // v9b: tema sedang memakai semua cerita (Festival Panen, rubah) tanpa bendera merah-putih
   console.log(errs.length ? errs.slice(0, 5) : 'no errors', ok ? 'LULUS' : 'GAGAL'); await b.close(); process.exit(ok ? 0 : 1);
 })();

diff --git a/balance.js b/balance.js
@@ -12,9 +12,11 @@ window.CONFIG = {
   NODE_AMOUNT: { kayu: 25, batu: 40, makanan: 6 },
   BUSH_REGROW_SEC: 360,
   HUNGER_PER_DAY: 25, ENERGY_PER_DAY: 20,
-  HUNGER_CRIT: 25, ENERGY_CRIT: 20, SLEEP_AT_NIGHT_BELOW: 70,
+  HUNGER_CRIT: 25, MEAL_AT: 50, ENERGY_CRIT: 20, // MEAL_AT (v9b): makan biasa saat lapar <= 50 (porsi ~4-5, tiap ~2 hari) bila stok >= 1 hari; di bawah HUNGER_CRIT tetap makan apa pun stoknya SLEEP_AT_NIGHT_BELOW: 70,
   EAT_RESTORE_PER_FOOD: 12, // ~2 makanan = 1 porsi (+25)
   SLEEP_REGEN_PER_SEC: 2.5,
+  // v9b batas nyaman: api/rumah menaikkan mood hanya sampai base + rumah + pangan>=foodDays hari + dapur + sumur (+ monumen); di atasnya turun aboveDecay/detik
+  MOOD_COMFORT: { base: 62, home: 6, partner: 2, food: 4, foodDays: 12, kitchen: 2, well: 2, max: 92, aboveDecay: 0.07 },
   MOOD_CAMPFIRE_BONUS: 0.15, MOOD_DECAY: 0.05, MOOD_HOME_BONUS: 0.08, MOOD_HUNGRY_PENALTY: 0.2, // MOOD_HOME_BONUS: tidur di gubuk -> mood naik pelan
   // era: id era minimum untuk membuka bangunan (lihat ERAS). storage: bisa jadi tempat setor.
   BUILDINGS: {
@@ -208,7 +210,7 @@ window.CONFIG = {
   // chancePerDay: peluang datang per hari bila semua syarat & jeda terpenuhi. happy: desa bahagia (rata-rata mood >= mood selama days hari) -> peluang & jeda membaik + log kabar.
   // cooldownPerPop: jeda bertambah per penduduk (desa besar tidak lagi 'kosong' bagi perantau) -> pop hari 140 tetap <= ~18 walau mood tinggi.
   SPAWN: { foodDaysPerPop: 10, foodPerDayPerPop: 2, foodDays: 12, minMood: 65, moodDays: 3, cooldownDays: 8, cooldownPerPop: 0.6, chancePerDay: 0.4,
-           happy: { mood: 70, days: 4, chancePerDay: 0.75, cooldownMult: 0.85 } },
+           happy: { mood: 80, days: 5, minMood: 50, chancePerDay: 0.75, cooldownMult: 0.85 } }, // v9b: desa bahagia harus diperjuangkan (target aktif ~25-45% hari)
   // ---------- pangan v9 (permintaan Ichwan 21-10): sumber pangan liar, dikerjakan otomatis di prioritas Makanan ----------
   // Semua hasil masuk 'makanan' (panen padi tetap 'gandum'). at: semak | tepi_air (tepi sungai + Kolam Ikan) | pohon (jamur di bawah pohon) | pohon_buah | sawah (keong).
   // time = detik kerja di tempat, yield = [min, maks] per angkutan, season = pengali hasil per musim (id musim tema; < minMult -> tidak dicari),

diff --git a/assets.js b/assets.js
@@ -230,11 +230,11 @@ window.ASSETS = {
   memancing: { img: [1, 2, 3, 4].map(i => `assets/characters/villager_${i}_memancing.png`), fw: 64, fh: 64, frames: 8 }, // kolom 0-1 lempar, 2-3 tunggu, 4-5 strike, 6-7 tarik; baris = arah menghadap air
   ikan_lompat: { img: 'assets/characters/fauna/ambient/ikan_lompat.png', frames: 6, ms: 90 },
   keong_sawah: { img: 'assets/characters/fauna/ambient/keong_sawah.png', frames: 2, ms: 700 },
-  // ikon pangan per sumber (teks melayang '+4 Ikan', ringkasan harian, tooltip Pangan)
+  // ikon pangan per sumber (teks melayang '+4 Ikan', ringkasan harian, tooltip Pangan). tahap 9b: icon_jagung & icon_rambutan
   pangan_ikon: { keys: ['ikan', 'jamur', 'buah', 'mangga', 'pisang', 'kelapa', 'rambutan', 'umbi', 'keong', 'makanan', 'padi', 'jagung', 'ubi', 'singkong', 'gandum', 'wortel'],
     img: ['assets/icons/resources/icon_fish.png', 'assets/icons/resources/icon_jamur.png', 'assets/icons/resources/icon_fruit.png', 'assets/icons/resources/icon_mangga.png', 'assets/icons/resources/icon_pisang.png',
-          'assets/icons/resources/icon_kelapa.png', 'assets/icons/resources/icon_fruit.png', 'assets/icons/resources/icon_umbi.png', 'assets/icons/resources/icon_keong.png', 'assets/icons/icon_food.png',
-          'assets/icons/resources/icon_padi_ikat.png', 'assets/icons/icon_food.png', 'assets/icons/resources/icon_umbi.png', 'assets/icons/resources/icon_umbi.png', 'assets/icons/resources/icon_wheat.png', 'assets/icons/icon_food.png'] },
+          'assets/icons/resources/icon_kelapa.png', 'assets/icons/resources/icon_rambutan.png', 'assets/icons/resources/icon_umbi.png', 'assets/icons/resources/icon_keong.png', 'assets/icons/icon_food.png',
+          'assets/icons/resources/icon_padi_ikat.png', 'assets/icons/resources/icon_jagung.png', 'assets/icons/resources/icon_umbi.png', 'assets/icons/resources/icon_umbi.png', 'assets/icons/resources/icon_wheat.png', 'assets/icons/icon_food.png'] },
   ikon_daya_tarik: { ui: 'assets/icons/status/icon_daya_tarik_16.png', img: 'assets/icons/status/icon_daya_tarik_16.png' }, ikon_pendatang: { ui: 'assets/icons/status/icon_pendatang_16.png', img: 'assets/icons/status/icon_pendatang_16.png' },
   bakul: { ui: 'assets/decor/pangan/bakul_kosong.png' },
   // UI peringatan & status

diff --git a/README.md b/README.md
@@ -111,6 +111,11 @@ Tema bawaan sekarang **Nusantara**; tema empat musim lama tetap ada (buka `index
 - Start makanan 14 → 20 (tanpa ini pangan habis di hari ke-3 sebelum hasil liar pertama), `FOOD_SURPLUS_FACTOR` 1,0 → 0,8.
 - Sim (`balance-sim`), sebelum → sesudah: min pangan hari 2–24 median 0 → 15–17 (Nusantara) / 0 → 8–13 (empat musim); d24 median Nusantara 31 (15 run), empat musim 47 (20 run).
   140 hari × 10: Nusantara pangan d120 486, pop d40/80/140 = 5/8/13 (maks 16); empat musim d120 437, pop 4/8/13 (maks 16). Sebelumnya pop d140 median 20.
+- **v9b (Ketua 21-10)** — desa bahagia harus diperjuangkan: rata-rata mood ≥ 80 selama 5 hari berturut-turut **dan** tidak ada warga < 50 (panel Daya tarik: “Desa bahagia 3/5 hari”, warga murung ditandai).
+  Batas nyaman mood (`MOOD_COMFORT`): api unggun & rumah hanya menaikkan mood sampai 62 + rumah 6 + pasangan 2 + pangan ≥ 12 hari 4 + dapur 2 + sumur 2 (+ monumen); di atasnya (kenduri, festival, sahabat, sifat) turun 0,07/detik. Tema sedang base 64.
+  Makan porsi kecil lebih sering (`MEAL_AT` 50: makan saat lapar ≤ 50 bila stok ≥ 1 hari) → stok tidak turun berundak 7/orang tiap 3 hari.
+  Tema sedang: semua dilema/momen P0, Festival Panen (tanpa bendera merah-putih) dan rubah pencuri aktif (TEKS v1.5.1/v1.6.0); ikon jagung & rambutan (aset 9b); nama/log tugas pangan dari `pangan.tugas.<id>`.
+  Sim 140 hari × 10: desa bahagia aktif median 36% hari (Nusantara) / 39% (sedang); pendatang median 6/run (min 5); d24 33 / 38; d120 489 / 449; pop d40/80/140 5/8/13 / 5/8/12.
 - Tes: `tests/pangan.test.js` (screenshot `v9-pangan.png`, `v9-memancing.png`).
 
 ## Struktur file
